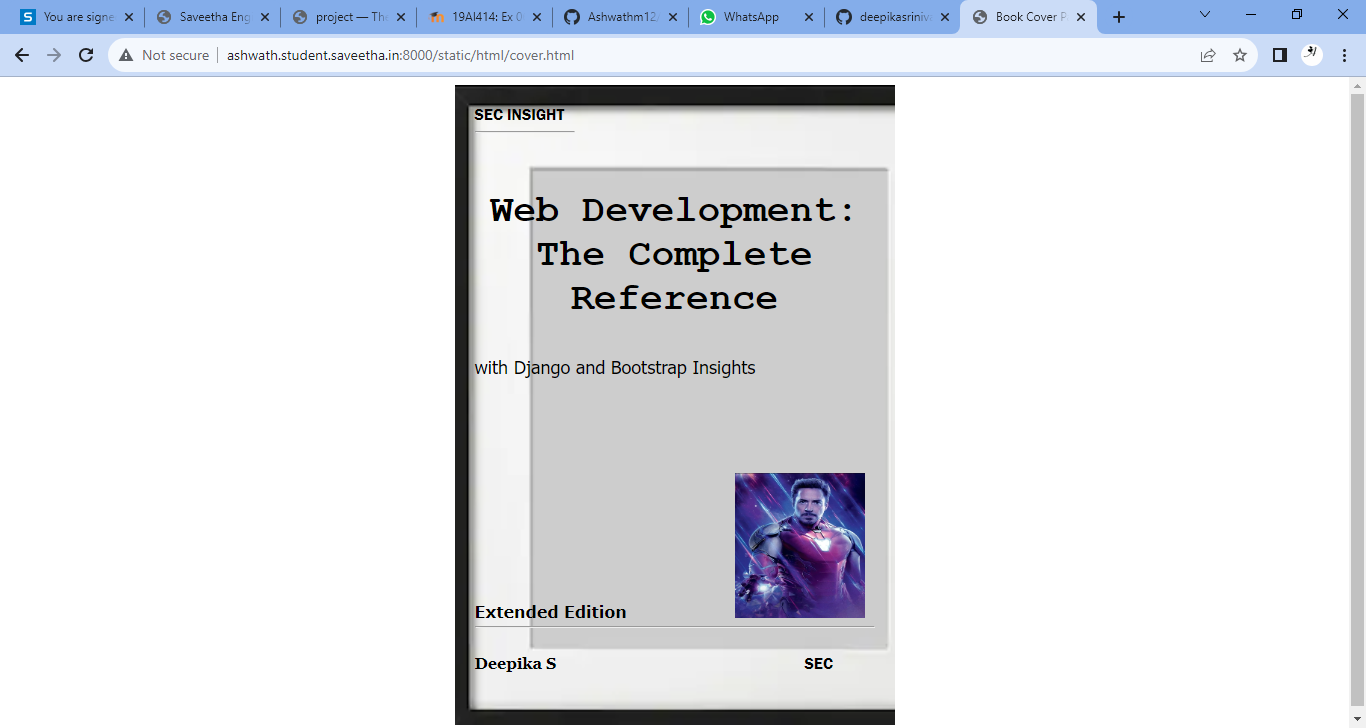
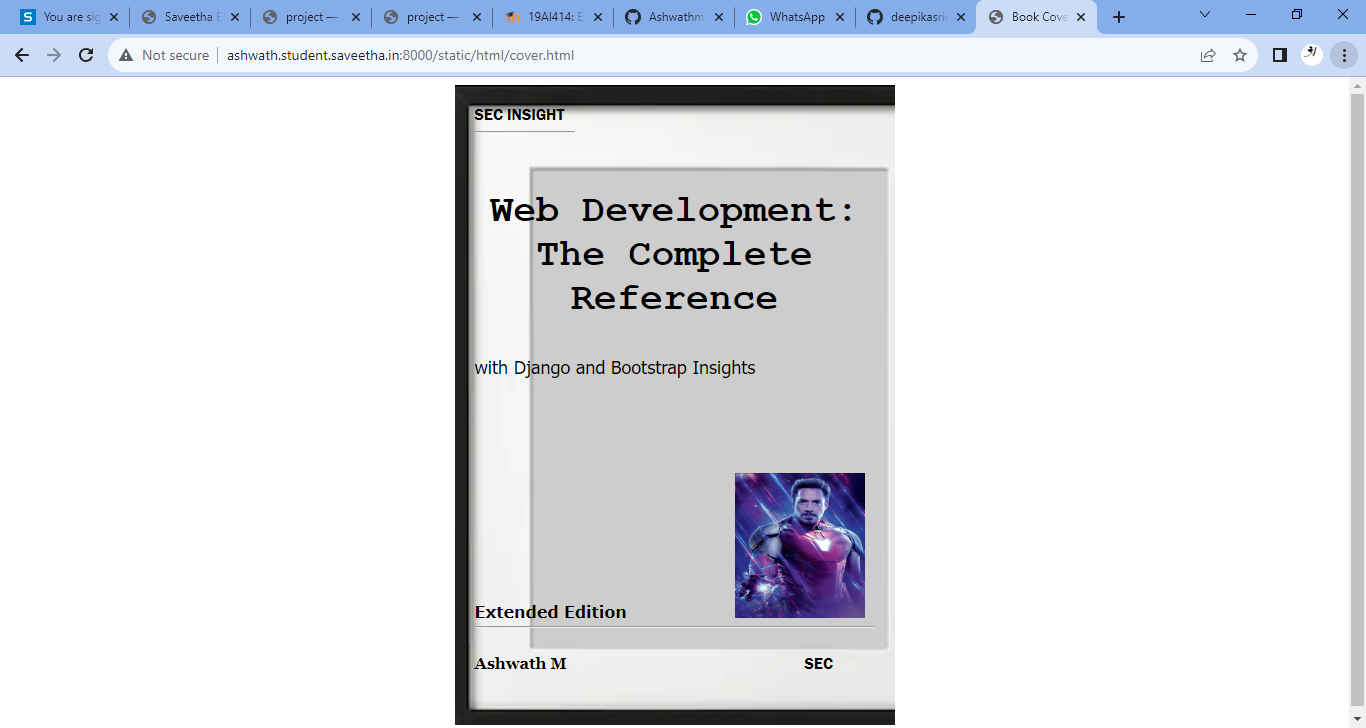
success

Changed region(s): [[0.0615, 0.0, 0.7687, 0.0604], [0.3382, 0.9066, 0.4305, 0.9368], [0.9531, 0.0604, 1.0, 0.0907]]

diff --git a/README.md b/README.md
@@ -128,7 +128,7 @@ Publish the website in the given URL.
                 <hr style="color: orange;">
             </div>
             <div class="author">
-               <p><b>Deepika S</b></p>
+               <p><b>Ashwath M</b></p>
             </div>
             <div class="pub">
                 SEC
